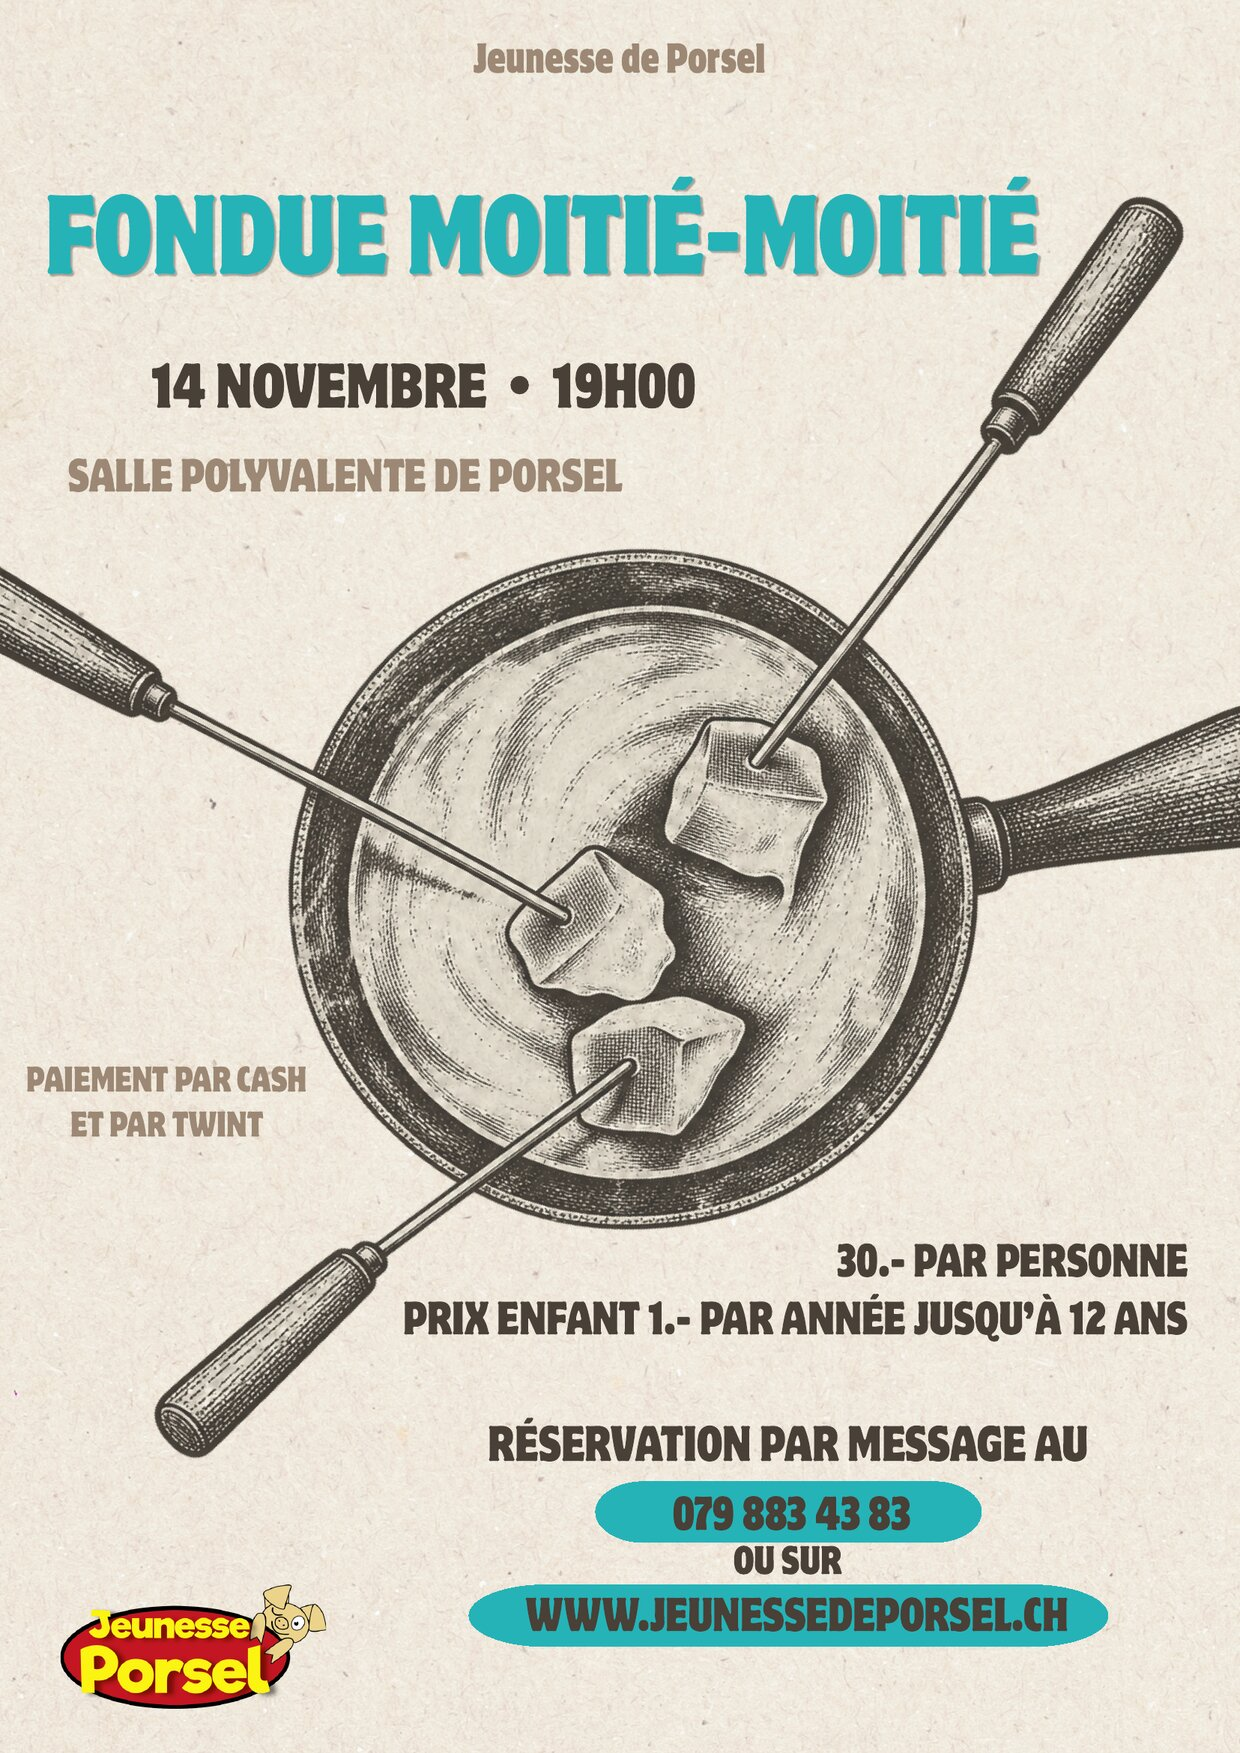
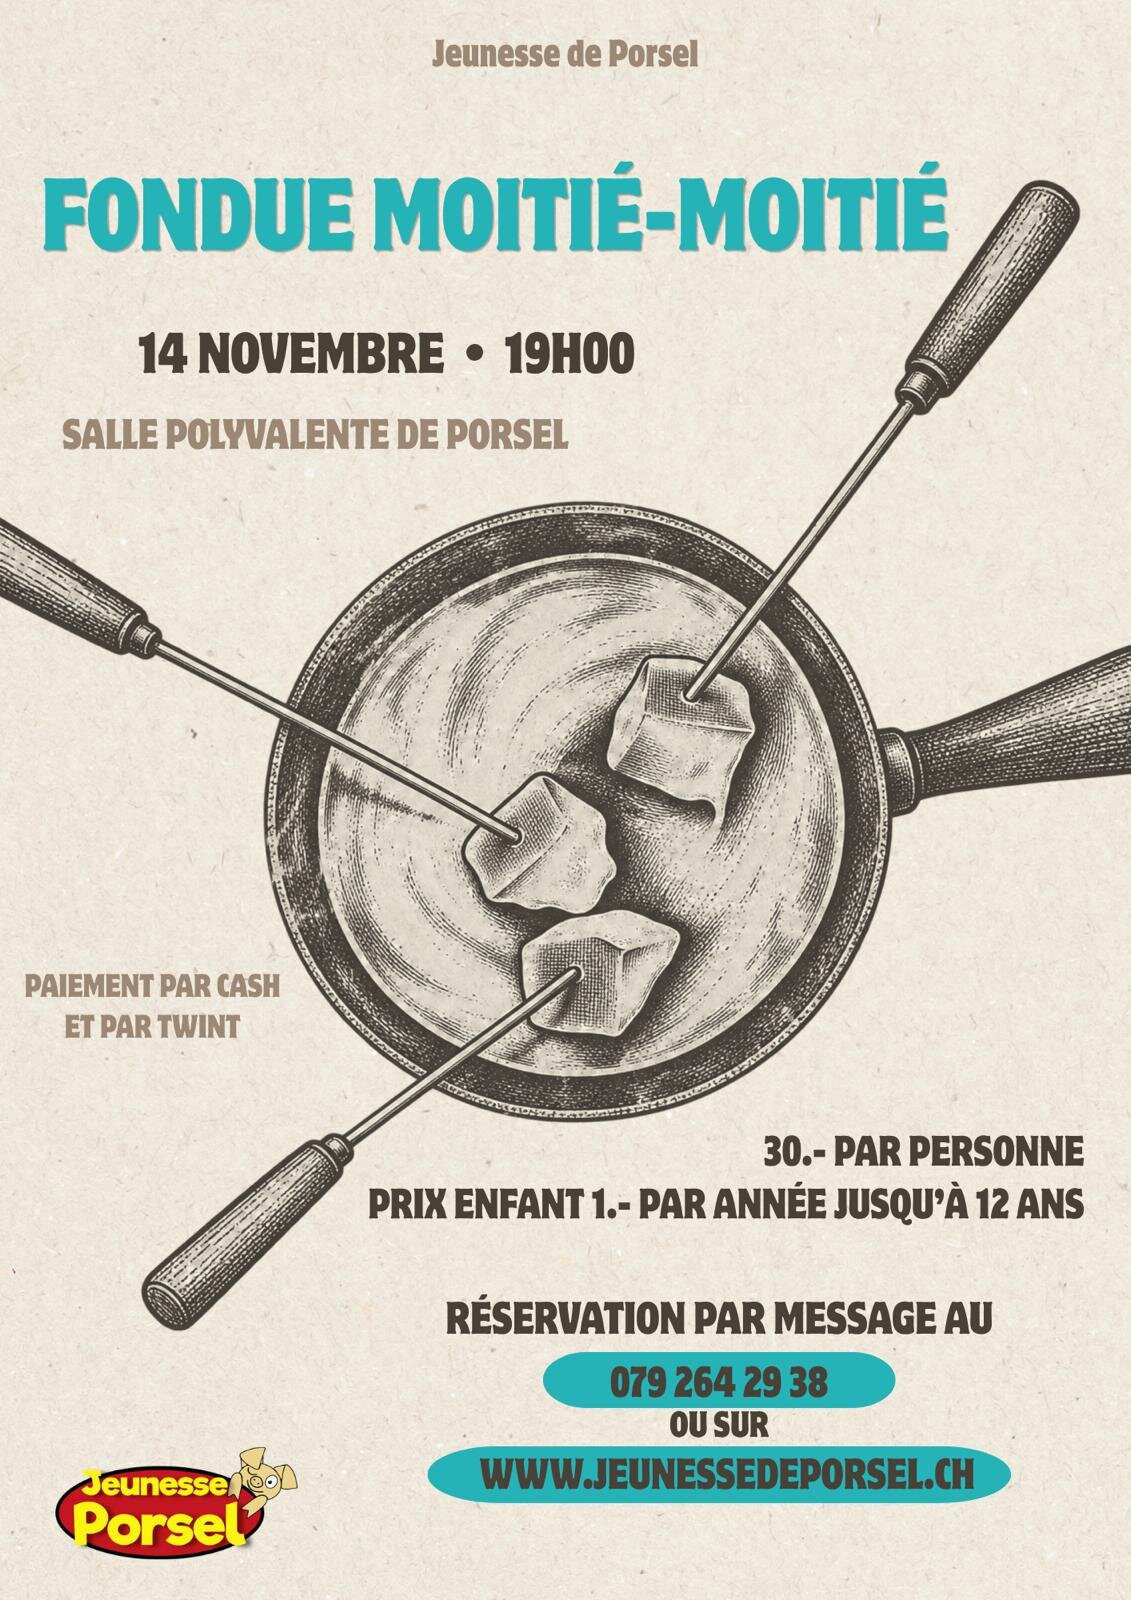
Update fondue flyer and reservation phone number (079 264 29 38)

diff --git a/components/fondue/FondueInfoPratique.tsx b/components/fondue/FondueInfoPratique.tsx
@@ -7,7 +7,7 @@ const FondueInfoPratique = () => {
     {
       icon: <Edit size={40} className="text-brand" />,
       title: "Comment réserver ?",
-      text: "Pour réserver votre place, rendez-vous sur notre site et remplissez le formulaire de réservation en ligne. Vous recevrez une confirmation par email. N’attendez pas, les places sont limitées !\n\nLes réservations par message sont également disponibles au 079 883 43 83.",
+      text: "Pour réserver votre place, rendez-vous sur notre site et remplissez le formulaire de réservation en ligne. Vous recevrez une confirmation par email. N’attendez pas, les places sont limitées !\n\nLes réservations par message sont également disponibles au 079 264 29 38.",
     },
     {
       icon: <MapPin size={40} className="text-brand" />,
